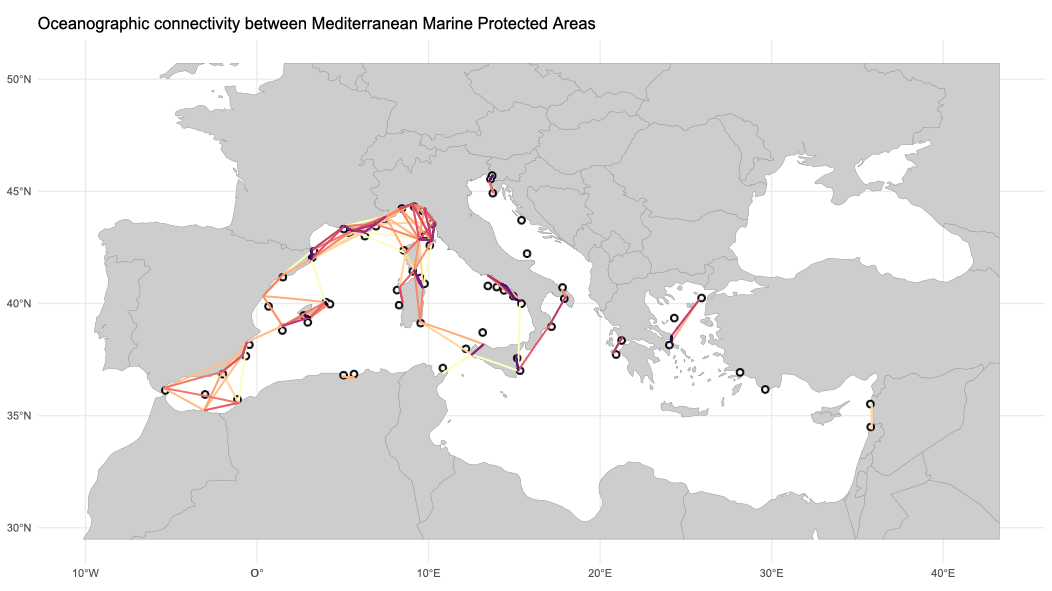
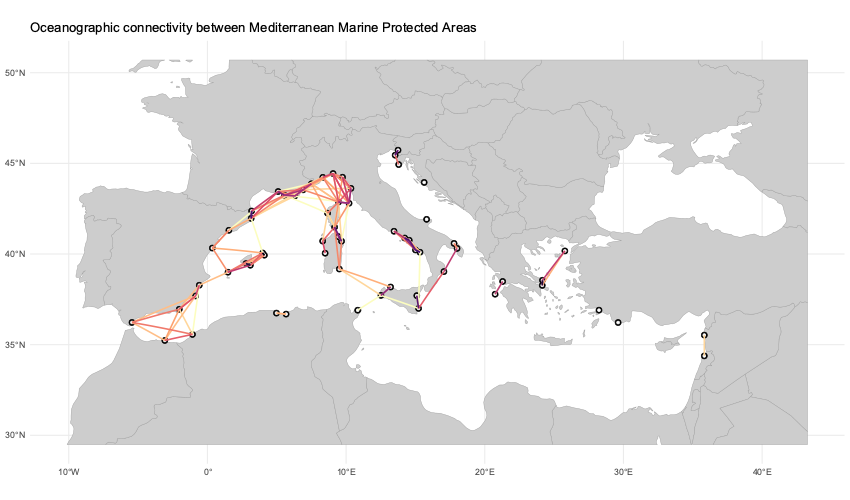
Up.

diff --git a/vignettes/biophysicalModelling.md b/vignettes/biophysicalModelling.md
@@ -1,0 +1,34 @@
+# Modelling coastal oceanographic connectivity
+
+## Biophysical Modeling Framework
+
+We developed a biophysical modeling framework to simulate how ocean currents can facilitate or hinder the connectivity of marine species along global coastlines. 
+
+This framework is not new; it has been successfully applied in previous studies to track the genetic flow among various ecological groups, such as macroalgae and mangroves, by simulating the journey of passive, virtual particles across the ocean's surface. These particles are meant to mimic the dispersal of species, carried by the ocean currents.
+
+>> Using biophysical modeling and empirical genetic data, we show that oceanographic connectivity can explain population genetic differentiation in mangroves, regardless of the species, region, and genetic marker, overcoming classical approaches based on geographic distance. 
+
+Our simulations draw on the high-resolution global ocean model provided by the Copernicus Marine Environment Monitoring Service (CMEMS). This model gives us daily updates on ocean currents at an approximately 8 km resolution, enabling us to predict potential pathways for species dispersal across the marine ecosystem accurately.
+
+The global distribution of marine biodiversity was mapped using species distribution models. These models estimate where species are likely to be found, based on current knowledge, including data from resources like AlgaeBase. Although some species-specific data were missing, the broad coverage of our models ensures a comprehensive representation of marine biodiversity.
+
+From strategically chosen locations along the coast, we released virtual particles into the ocean model to simulate dispersal events over an 11-year span. Each particle's journey, lasting up to 180 days, was meticulously tracked to understand how species might travel from one location to another, contributing to biodiversity connectivity.
+
+## Graph theory for connectivity analysis
+
+To analyze the vast amounts of data generated by our simulations, we turned to graph theory, a branch of mathematics that helps in understanding the relationships and connectivity within networks. By constructing a matrix that captures the likelihood of particles—and by extension, species—moving from one location to another, we were able to quantify the connectivity across the marine ecosystem. This matrix is based on the concept of "backward-in-time" dispersal probabilities, which aligns with how genetic material spreads through populations over time.
+
+Our analysis utilized two approaches to construct connectivity matrices: one that accounts for variable dispersal capabilities of different species and another based on a fixed average dispersal time. These matrices help us understand the effects of different dispersal strategies on biodiversity connectivity.
+
+Using graph theory, we then mapped out the network of connections between locations, applying algorithms to find the most efficient paths that particles could take across the network. This not only revealed direct connections but also highlighted key stepping-stone locations that play critical roles in facilitating long-distance dispersal. To further delve into the intricacies of this connectivity network, we employed centrality metrics to identify which locations are most vital for maintaining biodiversity connectivity across the ocean.
+
+
+
+
+We generated simulations of oceanographic connectivity with a biophysical modelling framework widely implemented elsewhere and validated against genetic data of different ecological groups (e.g., macroalgae in Buonomo et al., 2017, Assis et al., 2018, 2022 and mangroves in Gouvêa et al., 2023). This framework tracks passive Lagrangian particles by integrating daily gridded velocity fields provided by the Copernicus Marine Environment Monitoring Service (CMEMS, https://doi.org/10.48670/moi-00021), a data-assimilative operational ocean model implemented on the global ocean at 1/12° horizontal resolution (approximately 8 km). Connectivity simulations were conducted over the global marine distribution (Figure 1), as inferred by stacked species distribution model (SDM) provided by Fragkopoulou et al., 2022. These models provided distribution estimates for nearly all the species of our dataset except for Fucus guiryi, Ishige okamurae, Nereia lophocladia, and Pylaiella littoralis. As the observed distributions of these four species (according to AlgaeBase, Guiry & Guiry, 2023) overlapped with our computed global marine forest distribution, we consider the latter as a comprehensive representation of our compiled species.
+The biophysical model released individual particles daily from the centre of sites (hereafter referred to as source and sink sites) with 8.45 km hexagons edge, implemented along the coastline over the global marine forest distribution (n = 16489 source/sink sites, Figure 1). The particles were released over the 11-year period (2010-2020) and advected upon the ocean surface (top vertical layer of the CMEMS model) for up to 180 days until they eventually ended up on sink sites or got lost in the open ocean. The position of each particle was calculated hourly with a bilinear interpolation following the Courant–Friedrichs–Lewy condition. We assign for each sink site, the number of particles incoming for source sink, and the associated mean trajectory time in hours.
+
+## Multigeneration connectivity and centrality using graph theory
+
+We produced a unique matrix of pairwise probability of connectivity by dividing the weighted number of particles received in sink site from source site by the total weighted number of particles received in sink site, applying the “backward-in-time” dispersal probability approach in Legrand et al. (2022). This approach emphasizes the immigration process, which is instinctively more consistent with genetic theory (i.e., at time t, newly arriving genes at t - 1 are more important than exported genes at t + 1). We obtained a square 16489 x 16489 matrix, summarising the probability of connectivity among different sink and source sites across the global marine forest distribution and considering the weighting function that integrates their diverse dispersal capacities. To evaluate the impact of such functions, we also generate an additional square matrix using a fixed dispersal time of 7.43 d (i.e., the mean of dispersal range time for in-house dispersal capacity). This matrix only considered trajectories with a dispersal duration equal to or less than this fixed time, without any weighting process, as commonly implemented elsewhere (e.g., Gouvêa et al., 2023, Legrand et al., 2019, 2022).
+We used graph theory to compute asymmetrical multigeneration connectivity between all sampling localities (i.e., the closest source and sink sites) described in all studies comprised by our genetic differentiation dataset. We set a graph of 16489 nodes representing the sites, while the edges are indexed by the probabilities of connectivity. We use the Dijkstra algorithm to find the shortest path between sampling sites by minimising the sum of distance-transformed probabilities (i.e., -log(probabilities); Dijkstra, 1959). We later determined multi-generation connectivity by multiplying edge probabilities along the inferred shortest paths. We counted the number of stepping-stones needed to connect sampling sites (i.e., A -> B is 0 step, and A -> X -> B is 1 step).  To match the symmetric feature of genetic differentiation, we transformed the anisotropic multigeneration probability between pairs of sampling sites to a symmetric probability with P = PAB + PBA - PABPBA (Legrand et al., 2022). Note that we computed the average pairwise genetic differentiation levels when two or more sampled populations were found within a site (Gouvêa et al., 2023). In addition, we utilised a centrality graph-based index to assess the potential role of centrality in population connectivity (Assis et al., 2021; Gouvêa et al., 2023). We considered the harmonic centrality metric, which calculates, for each node, the inverse of the total length of the shortest paths between that node and all other nodes (Marchiori & Latora, 2000). This metric is similar to the closeness centrality (Gouvêa et al., 2023), but it accommodates non-connected graphs, which is applicable to our case.

diff --git a/README.md b/README.md
@@ -6,17 +6,23 @@ The R package coastalNet offers a suite of tools for retrieving, analyzing and v
 
 ## Introduction
 
-https://www.pnas.org/doi/full/10.1073/pnas.2209637120
+Oceanographic connectivity driven by ocean currents plays a pivotal role in shaping the distribution of marine biodiversity by either creating barriers that isolate populations, leading to increased differentiation, or by facilitating long-distance dispersal that underpins first settlements and broadscale biogeographical patterns. This dynamic mediates the exchange of genes and individuals between populations, particularly during pelagic dispersal stages, significantly influencing population dynamics, regional genetic diversity and differentiation, and ultimately ensuring population persistence over time.
 
-Oceanographic connectivity driven by ocean currents plays a crucial role in shaping the distribution of marine biodiversity, from genes to ecosystems. It mediated gene and individual exchanges between marine populations, especially during pelagic dispersal stages, significantly influencing population dynamics, regional genetic diversity and differentiation, and ultimately, population persistence over time.
 
-The examination of oceanographic connectivity has been precluded by over simplistic methods, such as isolation by distance models that assume higher population isolation with increasing geographic distances, or illustrative maps from which population connectivity is inferred from the general patterns ocean current. These methods overlook the role of tidal forces, topographic features, and wind on oceanic movements, which result in asymmetric connectivity flows among populations, with significant variations across both space and time. Additionally, the link between ocean currents and population connectivity is not linear but rather skewed, matching the extensive genetic structure observed among marine species' distributions.
+the role of connectivity driven by ocean currents has not been well defined at global scales
 
-Biophysical modeling and Lagrangian simulations have significantly advanced our understanding of oceanographic connectivity, providing more accurate estimates of population connectivity by simulating dispersal patterns of larvae and propagules transported by ocean currents.
+The examination of oceanographic connectivity has been precluded by simplistic methods, such as isolation by distance models that assume higher population isolation with increasing geographic distances, or illustrative maps from which population connectivity is inferred from the general patterns ocean current. These methods overlook the role of tidal forces, topographic features, and wind on oceanic movements, which result in asymmetric connectivity flows among populations, with significant variations across both space and time. Additionally, the link between ocean currents and population connectivity is not linear but rather skewed, matching the extensive genetic structure observed among marine species' distributions.
 
-The coastalNet R package emerges as a pivotal tool in marine research and conservation by resolving coastal oceanographic connectivity inferred from a biophysical model that run globally for a two-decade period. Its applications are diverse, including (1) testing the role of oceanographic connectivity in the extant levels of population genetic differentiation, (2) the identification key areas for the conservation of endangered and isolated populations and (3) the strategic designation of coherent networks of marine protected areas. For fisheries, it can (4) provide ways to develop sustainable practices by analyzing the connectivity of important fish populations. The tool is equally crucial for evaluating the effect of climate change on marine connectivity, as it can (5) estimate the direction and intensity of future range expansions while populations track habitat suitability. 
+Biophysical modeling and Lagrangian simulations ([read detailed methods](vignettes/biophysicalModelling.md)) have significantly advanced our understanding of oceanographic connectivity, providing more accurate estimates of population connectivity by simulating dispersal patterns of larvae and propagules transported by ocean currents. The estimates of connectivity couple network analysis (i.e., graph theory) to consider for multigenerational stepping-stone connectivity. 
+
+The coastalNet R package emerges as a pivotal tool in marine research and conservation by resolving coastal oceanographic connectivity inferred from a biophysical model that run globally for a two-decade period. Its applications are diverse, including (1) testing the role of oceanographic connectivity in the extant levels of population genetic differentiation, (2) the identification key areas for the conservation of endangered and isolated populations and (3) the strategic designation of coherent networks of marine protected areas. For fisheries, it can (4) provide ways to develop sustainable practices by analyzing the connectivity of important fish populations. The tool is equally crucial for evaluating the effect of climate change on marine connectivity, as it can (5) estimate the direction and intensity of future range expansions while populations track habitat suitability.
+
+(invasive species)
 
 These applications highlight the importance of coastalNet in enhancing our understanding and management of marine environments, establishing it as a vital tool for both researchers and conservation practitioners.
+
+>> These findings are relevant for mangroves’ biogeography and evolution, as well as management strategies considering climate change and genetic biodiversity conservation.
+
 
 <br>
 

diff --git a/vignettes/Example2.md b/vignettes/Example2.md
@@ -20,6 +20,9 @@ gc(reset=TRUE)
 library(coastalNet)
 library(rnaturalearth)
 library(viridis)
+library(ggplot2)
+library(sf)
+sf_use_s2(FALSE)
 ```
 
 ### Data Loading
@@ -63,9 +66,17 @@ A comprehensive visualization of oceanographic connectivity between MPAs is gene
 # Map oceanographic connectivity
 mappedConnectivity <- mapConnectivity(connectivityPairs=pairwiseConnectivity$connectivityPairs,obj=europeanMPA)
 
+# Get hexagon IDs that retrieved oceanographic connectivity estimates
+hexagonIDConnected <- pairwiseConnectivity$sitesConnected
+
+# Get a data.frame of the location of hexagons that retrieved oceanographic connectivity estimates
+data("hexagonCells")
+hexagonCellsConnected <- hexagonCells[hexagonCells$ID %in% hexagonIDConnected,1]
+hexagonCellsConnected <- st_coordinates(st_centroid(hexagonCellsConnected))
+
 # Load the worldmap and crop to the atudy region
 worldMap <- ne_countries(scale = "medium", returnclass = "sf")[,1]
-worldMap <- st_crop(worldMap,c(xmin=min(europeanMPA[,1])-5,xmax=max(europeanMPA[,1])+7.5,ymin=min(europeanMPA[,2])-5,ymax=max(europeanMPA[,2])+5))
+worldMap <- st_crop(worldMap,c(xmin=min(hexagonCellsConnected[,1])-5,xmax=max(hexagonCellsConnected[,1])+7.5,ymin=min(hexagonCellsConnected[,2])-5,ymax=max(hexagonCellsConnected[,2])+5))
 
 # Make a plot of the oceanographic connectivity between populations
 plot1 <- ggplot() + 

diff --git a/vignettes/Example3.md b/vignettes/Example3.md
@@ -21,6 +21,9 @@ library(coastalNet)
 library(rnaturalearth)
 library(viridis)
 library(tidyterra)
+library(ggplot2)
+library(sf)
+sf_use_s2(FALSE)
 ```
 
 ### Data Loading
